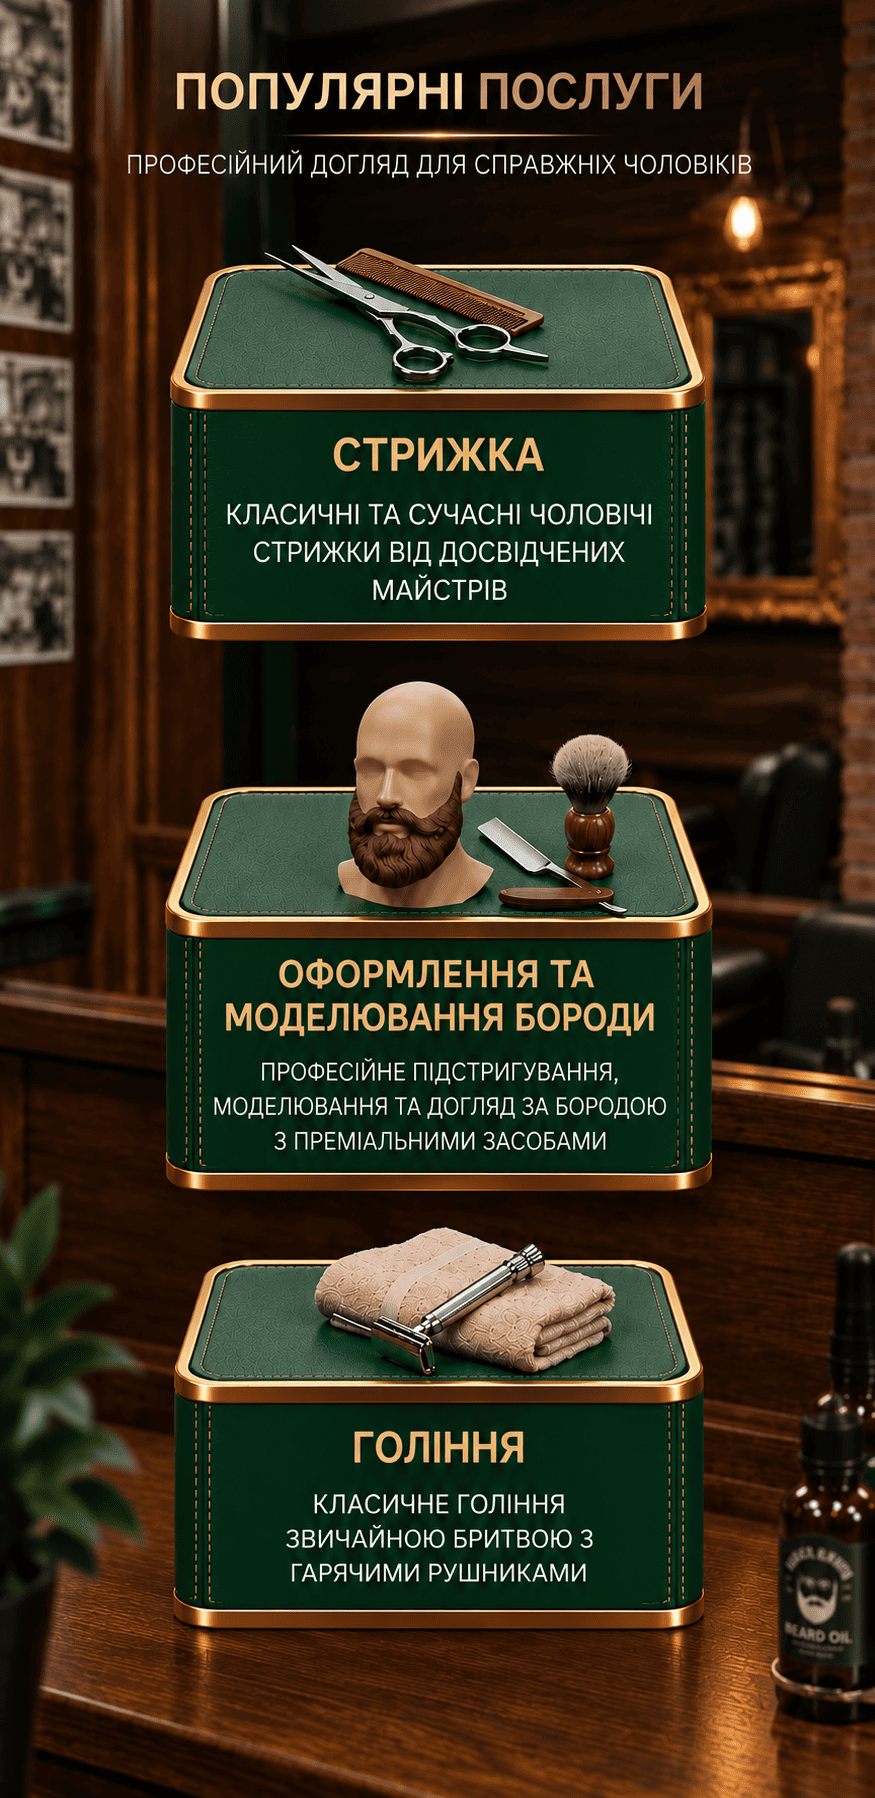
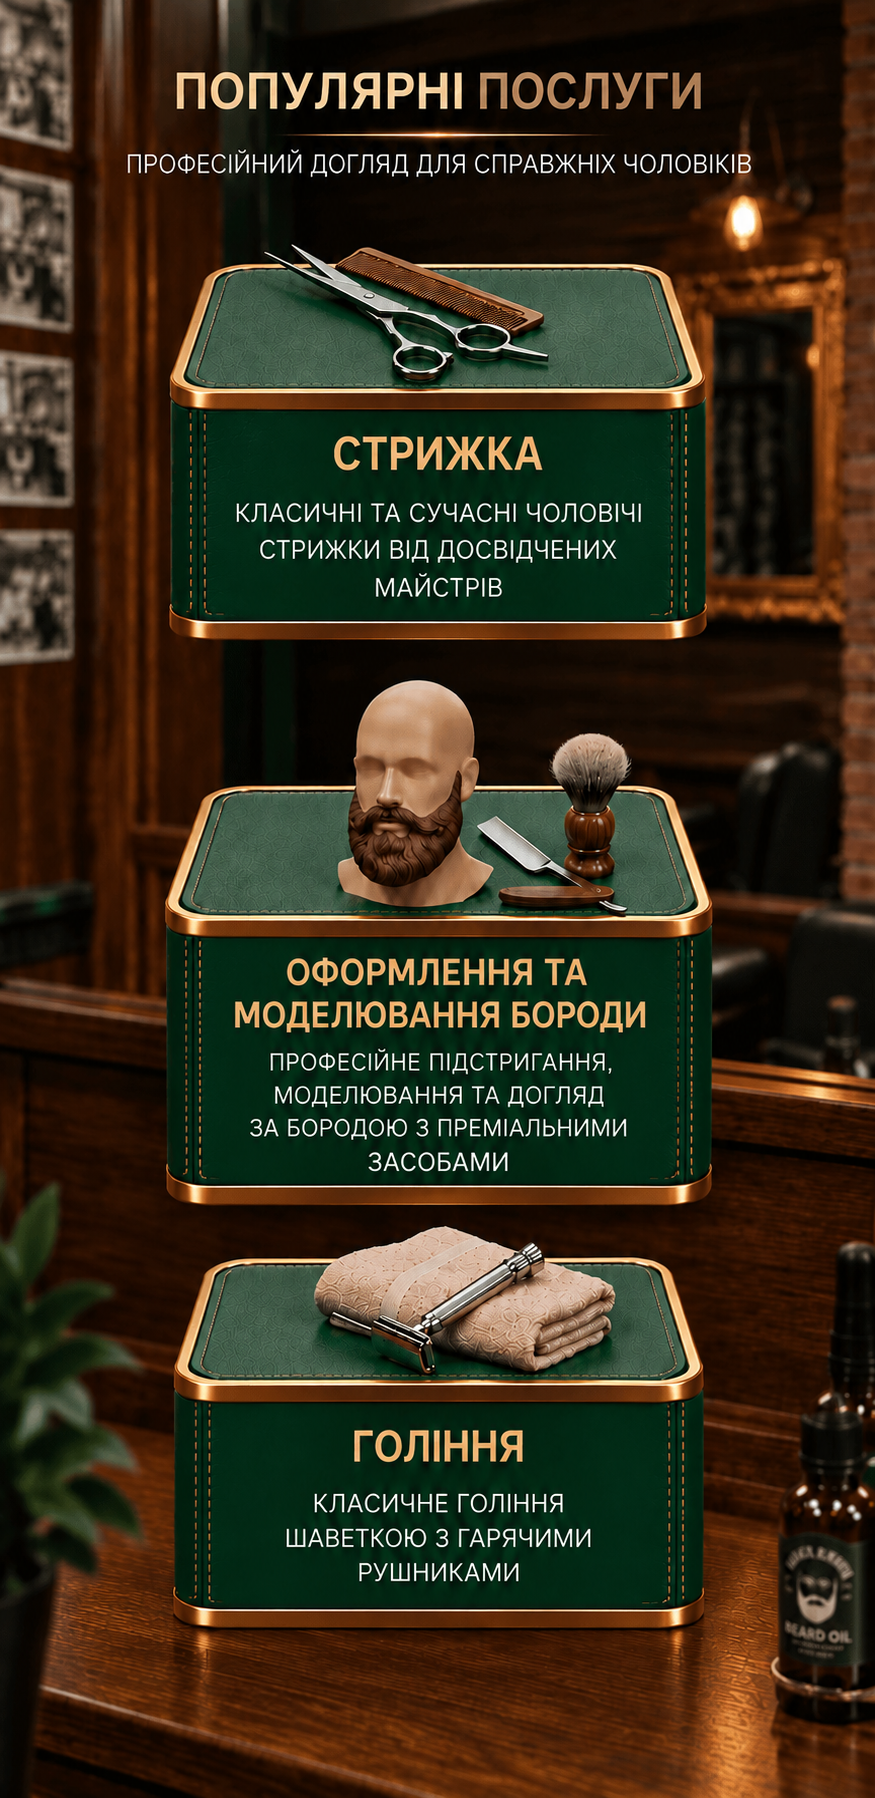
beta4

diff --git a/index.html b/index.html
@@ -129,7 +129,7 @@
                     </div>
                     <div class="feature-item">
                         <h4>Преміальні Засоби</h4>
-                        <p>Тільки найкращі засоби для ваших волосся та шкіри</p>
+                        <p>Тільки найкращі засоби для волосся та шкіри</p>
                     </div>
                     <div class="feature-item">
                         <h4>Розслаблена Атмосфера</h4>
@@ -192,7 +192,7 @@
                     <div class="pricing-item">
                         <div class="pricing-item-left">
                             <h3>Гоління голови або лиця</h3>
-                            <p>Класичне гоління звичайною бритвою з гарячим рушником.</p>
+                            <p>Класичне гоління шаветкою з гарячим рушником.</p>
                         </div>
                         <div class="pricing-item-price">350 – 800 ₴</div>
                     </div>
@@ -453,7 +453,7 @@
                         </div>
                     </div>
                     <div class="review-text">Лучшее место для красивой стрижки. Внутри приятная атмосфера, всегда
-                        предлагают кофе или напитки. Стригут красиво и всегда точно так как я прошу.
+                        предлагают кофе или напої. Стригут красиво и всегда точно так как я прошу.
                     </div>
                 </div>
 
@@ -542,7 +542,7 @@
     <section class="cta" id="book">
         <div class="container">
             <h2>Готові до нової стрижки?</h2>
-            <p>Приходьте без запису або запишіться заранее. Відчуйте різницю Old School.</p>
+
             <a href="#" class="ms_booking">
                 <button class="btn-primary">Записатись</button>
             </a>

diff --git a/styles/style.css b/styles/style.css
@@ -554,20 +554,20 @@ nav a:hover::after { width: 100%; }
 
 .portfolio-item:hover img {
     transform: scale(1.08);
-    filter: brightness(0.7);
+    /*filter: brightness(0.7);*/
 }
 
-.portfolio-overlay {
-    position: absolute;
-    inset: 0;
-    background: rgba(0, 0, 0, 0.4);
-    display: flex;
-    align-items: center;
-    justify-content: center;
-    opacity: 0;
-    transition: opacity 0.6s ease;
-    z-index: 2;
-}
+/*.portfolio-overlay {*/
+/*    position: absolute;*/
+/*    inset: 0;*/
+/*    background: rgba(0, 0, 0, 0.4);*/
+/*    display: flex;*/
+/*    align-items: center;*/
+/*    justify-content: center;*/
+/*    opacity: 0;*/
+/*    transition: opacity 0.6s ease;*/
+/*    z-index: 2;*/
+/*}*/
 
 .portfolio-overlay p {
     color: var(--gold);
